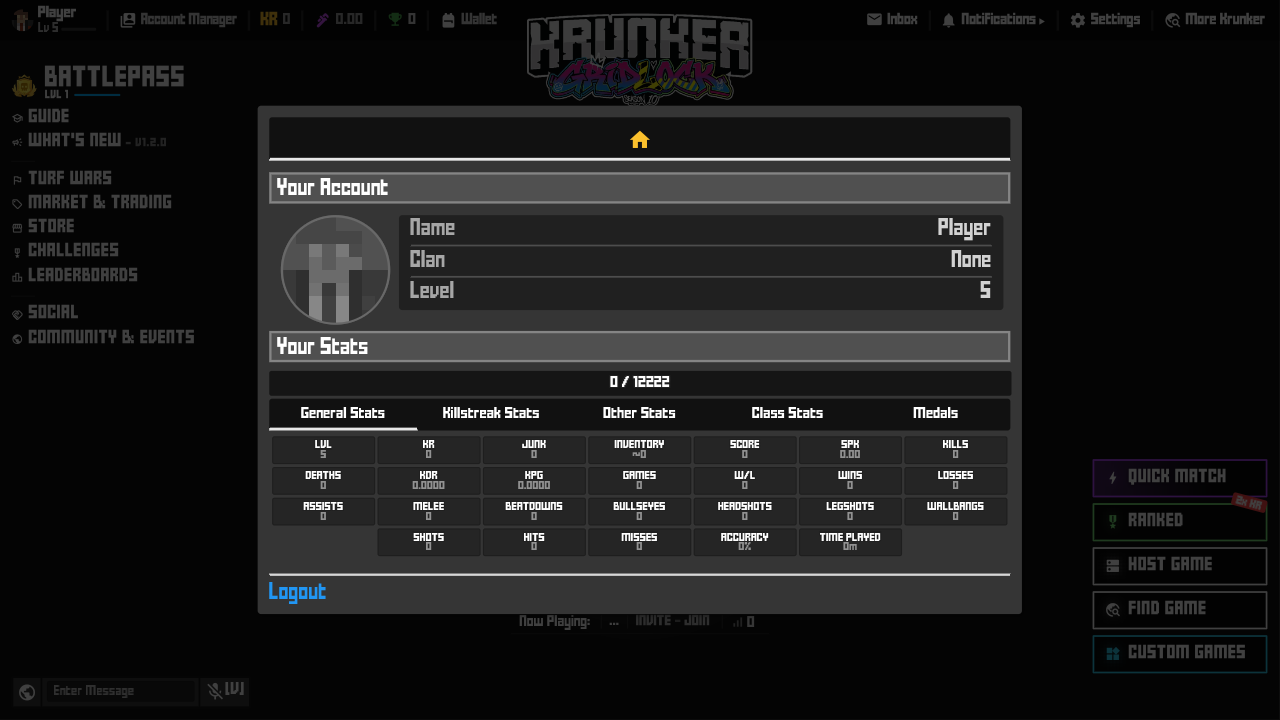
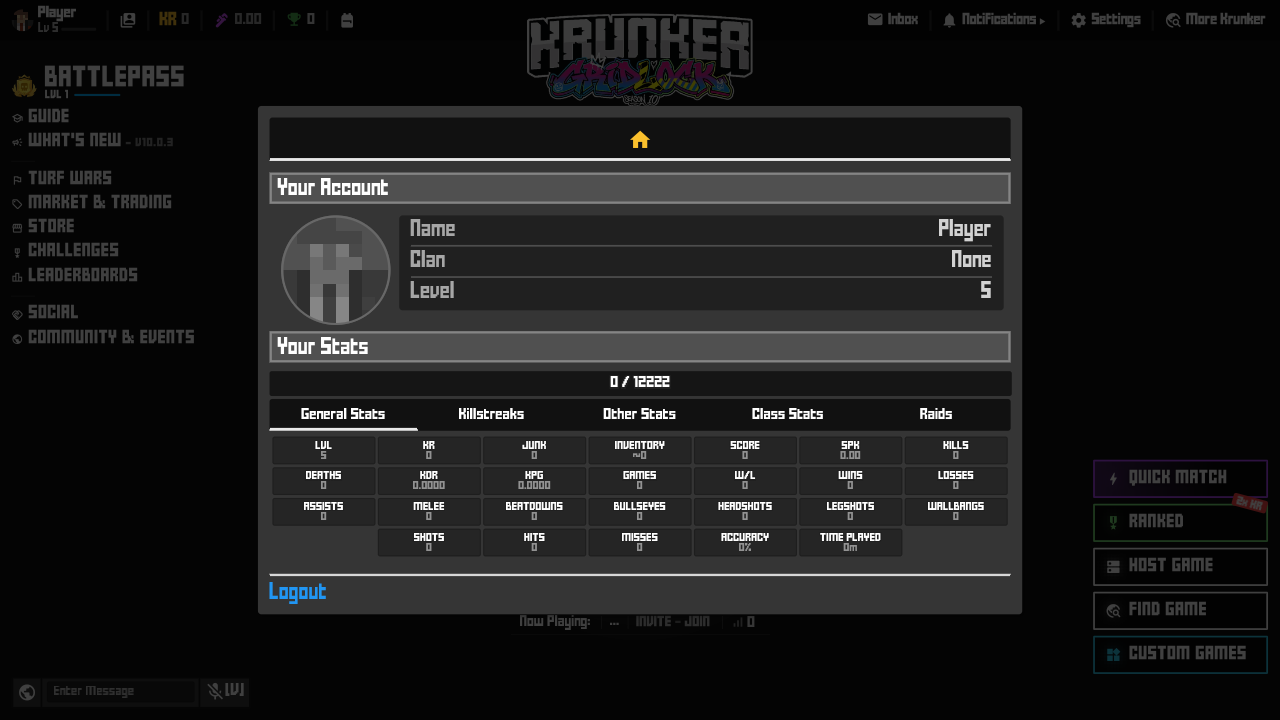
Account window: v10.0.3's profile tabs, Connections, Raids and Settings rows (tests, references)
The window 5 port itself (client/src/ui/account_ui.c) went in with c4a836477 (another agent committed the
file whole) and its docs with f5806bbf5 (doc/v10/ui.md section 9, kn-additions.md). What it does:
profileTabs home / Friends / Settings / Connections (deob-10.0.3.js:21519; v7's Partner and promo tabs
dropped), statTabs with Killstreaks and Raids (21520; Raids from acc.raidStats, setData [52], 247596-247634;
kn_brain keeps none, so v10's empty state) then KN's Medals, the Connections tab (247686-247752: Discord in
v10's not-configured state, Twitch's unlinked markup with Drops Earned, linkTwitchPop not available),
Promotional Emails (togglePromoEmails: POST /email/preferences) and the usernames row (manageAccNames).

native_auth_e2e.py opens Settings as switchTab(2); gen_scenarios.py's profile notes; the
kn-account-native-default / kn-account-kio-default references re-rendered (new tab labels; the compared
picture region is unchanged).

diff --git a/tools/uidiff/gen_scenarios.py b/tools/uidiff/gen_scenarios.py
@@ -382,11 +382,11 @@ PROFILE_ACCOUNT = {"name": "xXLongPlayerNameXx", "clan": "KRUNK", "score": 12500
 # rows of the General Stats view in #menuWindow's own pixels at 1280x720 (764 px wide there),
 # measured on the 1280 reference; scaled by the window's width at the other sizes
 PROFILE_ROWS = [
-    ("profile-tabs", 8, 58, "home / Friends / Partner / Settings / promo: KrunkNative has no Connections tab "
-                            "(window.canConnectExternalAccounts, Twitch / Metamask)", True),
+    ("profile-tabs", 8, 58, "home / Friends / Settings / Connections: v10.0.3's profileTabs, where v7 has "
+                            "Partner and promo code tabs", True),
     ("account", 62, 160, "Your Account: the picture beside the Name / Clan / Level box (the clipped header of the bug)", False),
     ("stats-header", 224, 68, "Your Stats and the XP bar", False),
-    ("stat-tabs", 292, 36, "the stat tabs: KrunkNative adds Medals (kn_brain medal counts)", True),
+    ("stat-tabs", 292, 36, "the stat tabs: v10.0.3's (Killstreaks, Raids), then KrunkNative's Medals (kn_brain medal counts)", True),
     ("stat-grid", 328, 126, "General Stats: the .pSt cards", False),
     ("logout", 460, 42, "Logout / Logout of all Sessions", False),
 ]

diff --git a/client/tests/native_auth_e2e.py b/client/tests/native_auth_e2e.py
@@ -141,7 +141,7 @@ def scenario(brain_url, game_port, smtp, db):
 1400 down ENTER
 1410 up ENTER
 5000 call showWindow 5
-5500 clicksel [onclick*="switchTab(3)"]
+5500 clicksel [onclick*="windows[4].switchTab(2)"]
 6500 vis @sec accEmailNew emailRes
 6600 quit
 """, brain_url, game_port)
